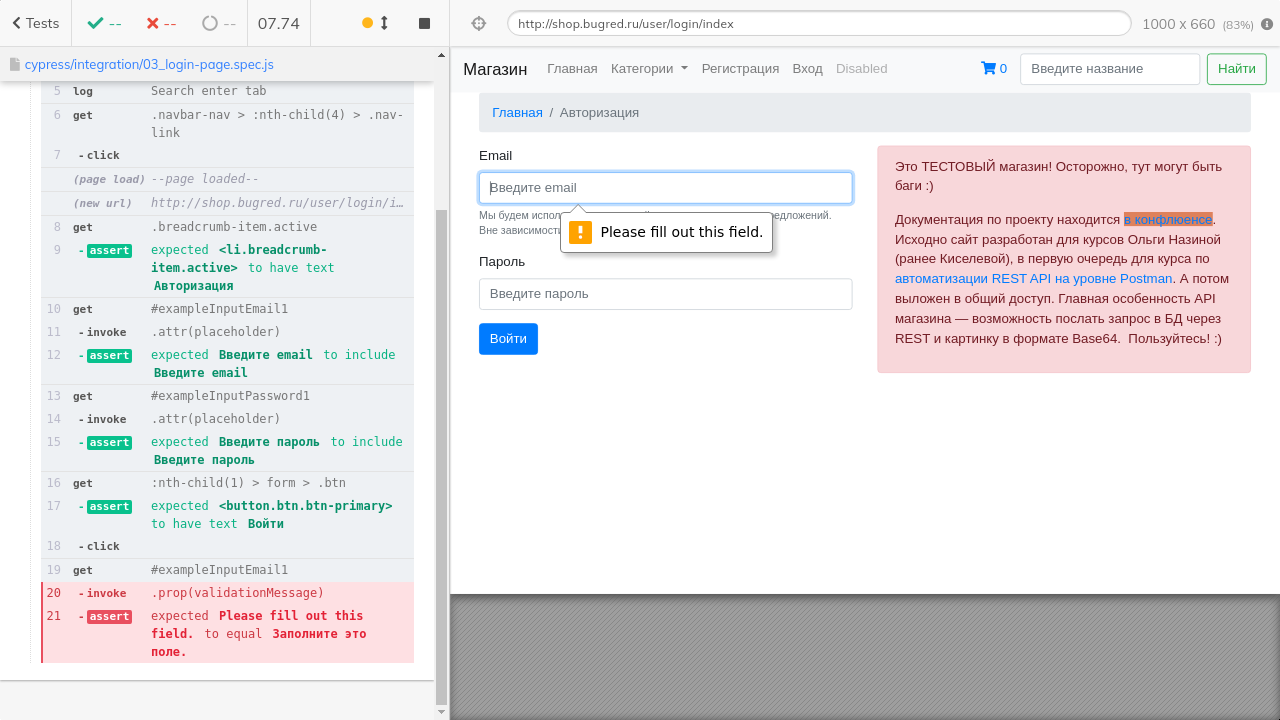
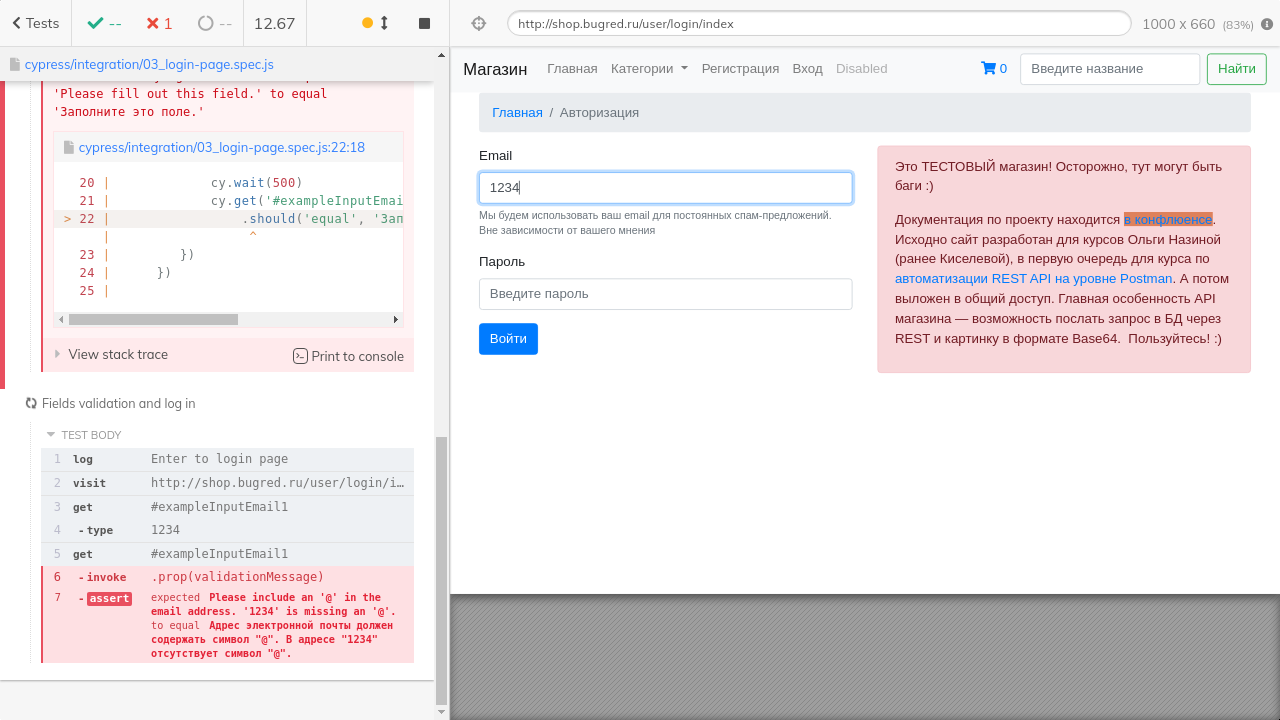
deploy: b638367f29958cf60e1c92ab9096b019d9942338

diff --git a/index.html b/index.html
@@ -1,2 +1,2 @@
 <!doctype html>
-<html lang="en"><head><meta charSet="utf-8"/><meta http-equiv="X-UA-Compatible" content="IE=edge"/><meta name="viewport" content="width=device-width, initial-scale=1"/><title>Mochawesome Report</title><link rel="stylesheet" href="assets/app.css"/></head><body data-raw="{&quot;stats&quot;:{&quot;suites&quot;:4,&quot;tests&quot;:8,&quot;passes&quot;:7,&quot;pending&quot;:0,&quot;failures&quot;:1,&quot;start&quot;:&quot;2021-10-14T08:18:33.290Z&quot;,&quot;end&quot;:&quot;2021-10-14T08:19:10.878Z&quot;,&quot;duration&quot;:15709,&quot;testsRegistered&quot;:8,&quot;passPercent&quot;:87.5,&quot;pendingPercent&quot;:0,&quot;other&quot;:0,&quot;hasOther&quot;:false,&quot;skipped&quot;:0,&quot;hasSkipped&quot;:false},&quot;results&quot;:[{&quot;uuid&quot;:&quot;0dfcf996-4aa1-4356-a237-bdf61f743bb5&quot;,&quot;title&quot;:&quot;&quot;,&quot;fullFile&quot;:&quot;cypress/integration/01_enter-to-shop.spec.js&quot;,&quot;file&quot;:&quot;cypress/integration/01_enter-to-shop.spec.js&quot;,&quot;beforeHooks&quot;:[],&quot;afterHooks&quot;:[],&quot;tests&quot;:[],&quot;suites&quot;:[{&quot;uuid&quot;:&quot;a35e7f9c-87f3-470c-b917-2eefc8cdb9fd&quot;,&quot;title&quot;:&quot;Enter to site&quot;,&quot;fullFile&quot;:&quot;&quot;,&quot;file&quot;:&quot;&quot;,&quot;beforeHooks&quot;:[],&quot;afterHooks&quot;:[],&quot;tests&quot;:[{&quot;title&quot;:&quot;First enter to web-page&quot;,&quot;fullTitle&quot;:&quot;Enter to site First enter to web-page&quot;,&quot;timedOut&quot;:null,&quot;duration&quot;:3812,&quot;state&quot;:&quot;passed&quot;,&quot;speed&quot;:&quot;slow&quot;,&quot;pass&quot;:true,&quot;fail&quot;:false,&quot;pending&quot;:false,&quot;context&quot;:null,&quot;code&quot;:&quot;cy.fixture(&#x27;example.json&#x27;).then(data =&gt; {\n  cy.log(&#x27;Enter to main page&#x27;);\n  cy.visit(data.main_url);\n  cy.get(&#x27;title&#x27;).should(&#x27;have.text&#x27;, &#x27;Тестирование&#x27;);\n  cy.log(&#x27;Search nav elements&#x27;);\n  cy.get(&#x27;.navbar-nav &gt; :nth-child(1) &gt; .nav-link&#x27;).should(&#x27;exist&#x27;);\n  cy.get(&#x27;.navbar-nav &gt; :nth-child(2) &gt; .nav-link&#x27;).should(&#x27;exist&#x27;);\n  cy.get(&#x27;.navbar-nav &gt; :nth-child(3) &gt; .nav-link&#x27;).should(&#x27;exist&#x27;);\n  cy.get(&#x27;.navbar-nav &gt; :nth-child(4) &gt; .nav-link&#x27;).should(&#x27;exist&#x27;);\n  cy.log(&#x27;Search cart icon&#x27;);\n  cy.get(&#x27;.fas&#x27;).should(&#x27;exist&#x27;);\n  cy.log(&#x27;Form input&#x27;);\n  cy.get(&#x27;.form-inline &gt; .form-control&#x27;).should(&#x27;exist&#x27;);\n  cy.get(&#x27;.form-inline &gt; .form-control&#x27;).invoke(&#x27;attr&#x27;, &#x27;placeholder&#x27;).should(&#x27;contain&#x27;, &#x27;Введите название&#x27;);\n  cy.get(&#x27;.form-inline &gt; .btn&#x27;).should(&#x27;exist&#x27;);\n  cy.get(&#x27;.form-inline &gt; .btn&#x27;).should(&#x27;have.text&#x27;, &#x27;Найти&#x27;);\n  cy.log(&#x27;Search cart icon&#x27;);\n  cy.screenshot(&#x27;main-page&#x27;);\n});&quot;,&quot;err&quot;:{},&quot;uuid&quot;:&quot;2a21c468-315e-4ed2-83f3-0a969e3bc86a&quot;,&quot;parentUUID&quot;:&quot;a35e7f9c-87f3-470c-b917-2eefc8cdb9fd&quot;,&quot;isHook&quot;:false,&quot;skipped&quot;:false}],&quot;suites&quot;:[],&quot;passes&quot;:[&quot;2a21c468-315e-4ed2-83f3-0a969e3bc86a&quot;],&quot;failures&quot;:[],&quot;pending&quot;:[],&quot;skipped&quot;:[],&quot;duration&quot;:3812,&quot;root&quot;:false,&quot;rootEmpty&quot;:false,&quot;_timeout&quot;:2000}],&quot;passes&quot;:[],&quot;failures&quot;:[],&quot;pending&quot;:[],&quot;skipped&quot;:[],&quot;duration&quot;:0,&quot;root&quot;:true,&quot;rootEmpty&quot;:true,&quot;_timeout&quot;:2000},{&quot;uuid&quot;:&quot;5208239e-46ae-4936-bc6f-14dc8afe7a53&quot;,&quot;title&quot;:&quot;&quot;,&quot;fullFile&quot;:&quot;cypress/integration/02_category-drop-down.spec.js&quot;,&quot;file&quot;:&quot;cypress/integration/02_category-drop-down.spec.js&quot;,&quot;beforeHooks&quot;:[],&quot;afterHooks&quot;:[],&quot;tests&quot;:[],&quot;suites&quot;:[{&quot;uuid&quot;:&quot;e9f5d403-a742-48b3-8f14-186c689f6cc1&quot;,&quot;title&quot;:&quot;Category navbar dropdow by click&quot;,&quot;fullFile&quot;:&quot;&quot;,&quot;file&quot;:&quot;&quot;,&quot;beforeHooks&quot;:[],&quot;afterHooks&quot;:[],&quot;tests&quot;:[{&quot;title&quot;:&quot;Dropdow by click&quot;,&quot;fullTitle&quot;:&quot;Category navbar dropdow by click Dropdow by click&quot;,&quot;timedOut&quot;:null,&quot;duration&quot;:4578,&quot;state&quot;:&quot;passed&quot;,&quot;speed&quot;:&quot;slow&quot;,&quot;pass&quot;:true,&quot;fail&quot;:false,&quot;pending&quot;:false,&quot;context&quot;:null,&quot;code&quot;:&quot;cy.fixture(&#x27;example.json&#x27;).then(data =&gt; {\n  cy.log(&#x27;Enter to main page&#x27;);\n  cy.visit(data.main_url);\n  cy.get(&#x27;title&#x27;).should(&#x27;have.text&#x27;, &#x27;Тестирование&#x27;);\n  cy.log(&#x27;Search nav elements&#x27;);\n  cy.get(&#x27;#navbarDropdown&#x27;).click();\n  cy.get(&#x27;.dropdown-menu a&#x27;).should(&#x27;have.length&#x27;, 12).first().should(&#x27;have.text&#x27;, &#x27;Категория 1&#x27;);\n  cy.get(&#x27;.dropdown-menu &gt; :nth-child(5)&#x27;).click();\n  cy.get(&#x27;.breadcrumb-item.active&#x27;).should(&#x27;have.text&#x27;, &#x27;Платья&#x27;);\n  cy.get(&#x27;#navbarDropdown&#x27;).click();\n  cy.get(&#x27;.dropdown-menu &gt; :nth-child(12)&#x27;).click();\n  cy.get(&#x27;.breadcrumb-item.active&#x27;).should(&#x27;have.text&#x27;, &#x27;Футболки&#x27;);\n  cy.get(&#x27;#navbarDropdown&#x27;).click();\n  cy.get(&#x27;.dropdown-menu &gt; :nth-child(6)&#x27;).click();\n  cy.get(&#x27;.breadcrumb-item.active&#x27;).should(&#x27;have.text&#x27;, &#x27;Шорты&#x27;);\n  cy.get(&#x27;#navbarDropdown&#x27;).click();\n  cy.get(&#x27;.dropdown-menu &gt; :nth-child(1)&#x27;).click();\n  cy.get(&#x27;.breadcrumb-item.active&#x27;).should(&#x27;have.text&#x27;, &#x27;Категория 1&#x27;);\n  cy.get(&#x27;.breadcrumb &gt; :nth-child(1) &gt; a&#x27;).click();\n  cy.contains(&#x27;.breadcrumb &gt; :nth-child(1) &gt; a&#x27;).should(&#x27;not.exist&#x27;);\n});&quot;,&quot;err&quot;:{},&quot;uuid&quot;:&quot;6567901e-6c1a-4908-931f-c26b286dcab2&quot;,&quot;parentUUID&quot;:&quot;e9f5d403-a742-48b3-8f14-186c689f6cc1&quot;,&quot;isHook&quot;:false,&quot;skipped&quot;:false}],&quot;suites&quot;:[],&quot;passes&quot;:[&quot;6567901e-6c1a-4908-931f-c26b286dcab2&quot;],&quot;failures&quot;:[],&quot;pending&quot;:[],&quot;skipped&quot;:[],&quot;duration&quot;:4578,&quot;root&quot;:false,&quot;rootEmpty&quot;:false,&quot;_timeout&quot;:2000}],&quot;passes&quot;:[],&quot;failures&quot;:[],&quot;pending&quot;:[],&quot;skipped&quot;:[],&quot;duration&quot;:0,&quot;root&quot;:true,&quot;rootEmpty&quot;:true,&quot;_timeout&quot;:2000},{&quot;uuid&quot;:&quot;52becadf-00f1-46cd-ab8f-07d2f2d77dec&quot;,&quot;title&quot;:&quot;&quot;,&quot;fullFile&quot;:&quot;cypress/integration/03_login-page.spec.js&quot;,&quot;file&quot;:&quot;cypress/integration/03_login-page.spec.js&quot;,&quot;beforeHooks&quot;:[],&quot;afterHooks&quot;:[],&quot;tests&quot;:[],&quot;suites&quot;:[{&quot;uuid&quot;:&quot;202b8a50-1e50-4962-9c93-526495836dce&quot;,&quot;title&quot;:&quot;Login page&quot;,&quot;fullFile&quot;:&quot;&quot;,&quot;file&quot;:&quot;&quot;,&quot;beforeHooks&quot;:[],&quot;afterHooks&quot;:[],&quot;tests&quot;:[{&quot;title&quot;:&quot;Fields validation and log in&quot;,&quot;fullTitle&quot;:&quot;Login page Fields validation and log in&quot;,&quot;timedOut&quot;:null,&quot;duration&quot;:6302,&quot;state&quot;:&quot;failed&quot;,&quot;speed&quot;:null,&quot;pass&quot;:false,&quot;fail&quot;:true,&quot;pending&quot;:false,&quot;context&quot;:&quot;\&quot;screenshots/03_login-page.spec.js/Login page -- Fields validation and log in (failed).png\&quot;&quot;,&quot;code&quot;:&quot;cy.fixture(&#x27;example.json&#x27;).then(data =&gt; {\n  cy.log(&#x27;Enter to main page&#x27;);\n  cy.visit(data.main_url);\n  cy.get(&#x27;title&#x27;).should(&#x27;have.text&#x27;, &#x27;Тестирование&#x27;);\n  cy.log(&#x27;Search enter tab&#x27;);\n  cy.get(&#x27;.navbar-nav &gt; :nth-child(4) &gt; .nav-link&#x27;).click();\n  cy.get(&#x27;.breadcrumb-item.active&#x27;).should(&#x27;have.text&#x27;, &#x27;Авторизация&#x27;);\n  cy.get(&#x27;#exampleInputEmail1&#x27;).invoke(&#x27;attr&#x27;, &#x27;placeholder&#x27;).should(&#x27;contain&#x27;, &#x27;Введите email&#x27;);\n  cy.get(&#x27;#exampleInputPassword1&#x27;).invoke(&#x27;attr&#x27;, &#x27;placeholder&#x27;).should(&#x27;contain&#x27;, &#x27;Введите пароль&#x27;);\n  cy.get(&#x27;:nth-child(1) &gt; form &gt; .btn&#x27;).should(&#x27;have.text&#x27;, &#x27;Войти&#x27;).click();\n  cy.get(&#x27;#exampleInputEmail1&#x27;).invoke(&#x27;prop&#x27;, &#x27;validationMessage&#x27;).should(&#x27;equal&#x27;, &#x27;Заполните это поле.&#x27;);\n  cy.get(&#x27;#exampleInputEmail1&#x27;).type(&#x27;1234&#x27;);\n  cy.get(&#x27;#exampleInputEmail1&#x27;).invoke(&#x27;prop&#x27;, &#x27;validationMessage&#x27;).should(&#x27;equal&#x27;, &#x27;Адрес электронной почты должен содержать символ \&quot;@\&quot;. В адресе \&quot;1234\&quot; отсутствует символ \&quot;@\&quot;.&#x27;);\n  cy.get(&#x27;#exampleInputEmail1&#x27;).type(&#x27;login@&#x27;);\n  cy.get(&#x27;#exampleInputEmail1&#x27;).invoke(&#x27;prop&#x27;, &#x27;validationMessage&#x27;).should(&#x27;equal&#x27;, &#x27;Введите часть адреса после символа \&quot;@\&quot;. Адрес \&quot;1234login@\&quot; неполный.&#x27;);\n  cy.get(&#x27;#exampleInputEmail1&#x27;).type(&#x27;mail.ru&#x27;);\n  cy.get(&#x27;#exampleInputPassword1&#x27;).invoke(&#x27;prop&#x27;, &#x27;validationMessage&#x27;).should(&#x27;equal&#x27;, &#x27;Заполните это поле.&#x27;);\n  cy.log(&#x27;Enter valid data&#x27;);\n  cy.get(&#x27;#exampleInputEmail1&#x27;).type(&#x27;{selectall}{backspace}&#x27;);\n  cy.get(&#x27;#exampleInputEmail1&#x27;).type(data.login);\n  cy.get(&#x27;#exampleInputPassword1&#x27;).type(data.password);\n  cy.get(&#x27;:nth-child(1) &gt; form &gt; .btn&#x27;).should(&#x27;have.text&#x27;, &#x27;Войти&#x27;).click();\n  cy.log(&#x27;Log in shop and cross to main page with new tab&#x27;);\n  cy.get(&#x27;.navbar-nav &gt; :nth-child(3) &gt; .nav-link&#x27;).should(&#x27;have.text&#x27;, &#x27;\\n                                Test                            &#x27;);\n  cy.get(&#x27;.navbar-nav &gt; :nth-child(3) &gt; .nav-link&#x27;).click();\n  cy.get(&#x27;.nav-item.show &gt; .dropdown-menu&#x27;);\n  cy.get(&#x27;[href=\&quot;/user/setup/index\&quot;]&#x27;).should(&#x27;have.text&#x27;, &#x27;Настройки&#x27;);\n  cy.get(&#x27;[href=\&quot;/user/lk/index\&quot;]&#x27;).should(&#x27;have.text&#x27;, &#x27;Личный кабинет&#x27;);\n  cy.get(&#x27;[href=\&quot;/user/lk/logout\&quot;]&#x27;).should(&#x27;have.text&#x27;, &#x27;Выйдем&#x27;);\n});&quot;,&quot;err&quot;:{&quot;message&quot;:&quot;AssertionError: Timed out retrying after 4000ms: expected &#x27;Please fill out this field.&#x27; to equal &#x27;Заполните это поле.&#x27;&quot;,&quot;estack&quot;:&quot;AssertionError: Timed out retrying after 4000ms: expected &#x27;Please fill out this field.&#x27; to equal &#x27;Заполните это поле.&#x27;\n    at Context.eval (http://shop.bugred.ru/__cypress/tests?p=cypress/integration/03_login-page.spec.js:111:73)&quot;,&quot;diff&quot;:&quot;- &#x27;Please fill out this field.&#x27;\n+ &#x27;Заполните это поле.&#x27;\n&quot;},&quot;uuid&quot;:&quot;e033a44a-0f41-4331-9142-ffd30e2c7bc5&quot;,&quot;parentUUID&quot;:&quot;202b8a50-1e50-4962-9c93-526495836dce&quot;,&quot;isHook&quot;:false,&quot;skipped&quot;:false}],&quot;suites&quot;:[],&quot;passes&quot;:[],&quot;failures&quot;:[&quot;e033a44a-0f41-4331-9142-ffd30e2c7bc5&quot;],&quot;pending&quot;:[],&quot;skipped&quot;:[],&quot;duration&quot;:6302,&quot;root&quot;:false,&quot;rootEmpty&quot;:false,&quot;_timeout&quot;:2000}],&quot;passes&quot;:[],&quot;failures&quot;:[],&quot;pending&quot;:[],&quot;skipped&quot;:[],&quot;duration&quot;:0,&quot;root&quot;:true,&quot;rootEmpty&quot;:true,&quot;_timeout&quot;:2000},{&quot;uuid&quot;:&quot;210a9a6b-94ac-4dd4-b509-3ba75fe205f1&quot;,&quot;title&quot;:&quot;&quot;,&quot;fullFile&quot;:&quot;cypress/integration/04_api-test.spec.js&quot;,&quot;file&quot;:&quot;cypress/integration/04_api-test.spec.js&quot;,&quot;beforeHooks&quot;:[],&quot;afterHooks&quot;:[],&quot;tests&quot;:[],&quot;suites&quot;:[{&quot;uuid&quot;:&quot;f1688cf5-00a6-4c1e-9439-1f0c952fa551&quot;,&quot;title&quot;:&quot;Test api endpoint shop&quot;,&quot;fullFile&quot;:&quot;&quot;,&quot;file&quot;:&quot;&quot;,&quot;beforeHooks&quot;:[],&quot;afterHooks&quot;:[],&quot;tests&quot;:[{&quot;title&quot;:&quot;Get item success&quot;,&quot;fullTitle&quot;:&quot;Test api endpoint shop Get item success&quot;,&quot;timedOut&quot;:null,&quot;duration&quot;:243,&quot;state&quot;:&quot;passed&quot;,&quot;speed&quot;:&quot;slow&quot;,&quot;pass&quot;:true,&quot;fail&quot;:false,&quot;pending&quot;:false,&quot;context&quot;:null,&quot;code&quot;:&quot;cy.request(&#x27;GET&#x27;, &#x27;http://shop.bugred.ru/api/items/get/&#x27;, {\n  \&quot;id\&quot;: &#x27;51&#x27;\n}).then(response =&gt; {\n  expect(response.body.result).to.have.property(&#x27;name&#x27;, &#x27;Шортики&#x27;);\n  expect(response.body.result).to.have.property(&#x27;section&#x27;, &#x27;Платья&#x27;);\n  expect(response.body.result).to.have.property(&#x27;description&#x27;, &#x27;Модное платье из новой коллекции!&#x27;);\n  expect(response.body.result).to.have.property(&#x27;color&#x27;, &#x27;RED&#x27;);\n  expect(response.body.result).to.have.property(&#x27;size&#x27;, &#x27;44&#x27;);\n  expect(response.body.result).to.have.property(&#x27;params&#x27;, &#x27;&#x27;);\n  expect(response.body.result).to.have.property(&#x27;photo&#x27;, &#x27;http://shop.bugred.ruhttps://via.placeholder.com/300x300&#x27;);\n});&quot;,&quot;err&quot;:{},&quot;uuid&quot;:&quot;62d13555-eef0-4aaa-ad9c-e54dc0a117b6&quot;,&quot;parentUUID&quot;:&quot;f1688cf5-00a6-4c1e-9439-1f0c952fa551&quot;,&quot;isHook&quot;:false,&quot;skipped&quot;:false},{&quot;title&quot;:&quot;Get item price&quot;,&quot;fullTitle&quot;:&quot;Test api endpoint shop Get item price&quot;,&quot;timedOut&quot;:null,&quot;duration&quot;:200,&quot;state&quot;:&quot;passed&quot;,&quot;speed&quot;:&quot;slow&quot;,&quot;pass&quot;:true,&quot;fail&quot;:false,&quot;pending&quot;:false,&quot;context&quot;:null,&quot;code&quot;:&quot;cy.request(&#x27;GET&#x27;, &#x27;http://shop.bugred.ru/api/items/get/&#x27;, {\n  \&quot;id\&quot;: &#x27;5&#x27;\n}).then(response =&gt; {\n  expect(response.body.result).to.have.property(&#x27;price&#x27;, 1500);\n});&quot;,&quot;err&quot;:{},&quot;uuid&quot;:&quot;106d8a9e-3218-4315-b9ee-9479f53b2cdb&quot;,&quot;parentUUID&quot;:&quot;f1688cf5-00a6-4c1e-9439-1f0c952fa551&quot;,&quot;isHook&quot;:false,&quot;skipped&quot;:false},{&quot;title&quot;:&quot;Get without id&quot;,&quot;fullTitle&quot;:&quot;Test api endpoint shop Get without id&quot;,&quot;timedOut&quot;:null,&quot;duration&quot;:181,&quot;state&quot;:&quot;passed&quot;,&quot;speed&quot;:&quot;slow&quot;,&quot;pass&quot;:true,&quot;fail&quot;:false,&quot;pending&quot;:false,&quot;context&quot;:null,&quot;code&quot;:&quot;cy.request(&#x27;GET&#x27;, &#x27;http://shop.bugred.ru/api/items/get/&#x27;).then(response =&gt; {\n  expect(response.body).to.have.property(&#x27;error&#x27;, &#x27;id_not_filled&#x27;);\n  expect(response.body).to.have.property(&#x27;message&#x27;, &#x27;Поле ID товара  не заполнено&#x27;);\n});&quot;,&quot;err&quot;:{},&quot;uuid&quot;:&quot;c7abe5d8-a504-4b09-bd5b-7a27a9157dd2&quot;,&quot;parentUUID&quot;:&quot;f1688cf5-00a6-4c1e-9439-1f0c952fa551&quot;,&quot;isHook&quot;:false,&quot;skipped&quot;:false},{&quot;title&quot;:&quot;Get item not found&quot;,&quot;fullTitle&quot;:&quot;Test api endpoint shop Get item not found&quot;,&quot;timedOut&quot;:null,&quot;duration&quot;:190,&quot;state&quot;:&quot;passed&quot;,&quot;speed&quot;:&quot;slow&quot;,&quot;pass&quot;:true,&quot;fail&quot;:false,&quot;pending&quot;:false,&quot;context&quot;:null,&quot;code&quot;:&quot;cy.request(&#x27;GET&#x27;, &#x27;http://shop.bugred.ru/api/items/get/&#x27;, {\n  \&quot;id\&quot;: &#x27;567&#x27;\n}).then(response =&gt; {\n  expect(response.body).to.have.property(&#x27;error&#x27;, &#x27;item_with_id_not_found&#x27;);\n  expect(response.body).to.have.property(&#x27;message&#x27;, &#x27;Товар с ID 567 не найден!&#x27;);\n});&quot;,&quot;err&quot;:{},&quot;uuid&quot;:&quot;dd251920-f5d5-4b43-8058-fc381f63711d&quot;,&quot;parentUUID&quot;:&quot;f1688cf5-00a6-4c1e-9439-1f0c952fa551&quot;,&quot;isHook&quot;:false,&quot;skipped&quot;:false},{&quot;title&quot;:&quot;Get query select item&quot;,&quot;fullTitle&quot;:&quot;Test api endpoint shop Get query select item&quot;,&quot;timedOut&quot;:null,&quot;duration&quot;:203,&quot;state&quot;:&quot;passed&quot;,&quot;speed&quot;:&quot;slow&quot;,&quot;pass&quot;:true,&quot;fail&quot;:false,&quot;pending&quot;:false,&quot;context&quot;:null,&quot;code&quot;:&quot;cy.request(&#x27;GET&#x27;, &#x27;http://shop.bugred.ru/api/items/select/&#x27;, {\n  \&quot;sql_query\&quot;: \&quot;select * from items where last_id = 2;\&quot;\n}).then(response =&gt; {\n  expect(response.body.result[0]).to.have.property(&#x27;title&#x27;, &#x27;Товар 2&#x27;);\n  expect(response.body.result[0]).to.have.property(&#x27;price&#x27;, &#x27;1000&#x27;);\n  expect(response.body.result[0]).to.have.property(&#x27;image&#x27;, &#x27;/files/tmpfiles/avatar_big.jpg&#x27;);\n  expect(response.body.result[0]).to.have.property(&#x27;category&#x27;, &#x27;1&#x27;);\n  expect(response.body.result[0]).to.have.property(&#x27;sort&#x27;, &#x27;2&#x27;);\n});&quot;,&quot;err&quot;:{},&quot;uuid&quot;:&quot;f0aec3b4-c941-4d4f-8853-d80e17b02d93&quot;,&quot;parentUUID&quot;:&quot;f1688cf5-00a6-4c1e-9439-1f0c952fa551&quot;,&quot;isHook&quot;:false,&quot;skipped&quot;:false}],&quot;suites&quot;:[],&quot;passes&quot;:[&quot;62d13555-eef0-4aaa-ad9c-e54dc0a117b6&quot;,&quot;106d8a9e-3218-4315-b9ee-9479f53b2cdb&quot;,&quot;c7abe5d8-a504-4b09-bd5b-7a27a9157dd2&quot;,&quot;dd251920-f5d5-4b43-8058-fc381f63711d&quot;,&quot;f0aec3b4-c941-4d4f-8853-d80e17b02d93&quot;],&quot;failures&quot;:[],&quot;pending&quot;:[],&quot;skipped&quot;:[],&quot;duration&quot;:1017,&quot;root&quot;:false,&quot;rootEmpty&quot;:false,&quot;_timeout&quot;:2000}],&quot;passes&quot;:[],&quot;failures&quot;:[],&quot;pending&quot;:[],&quot;skipped&quot;:[],&quot;duration&quot;:0,&quot;root&quot;:true,&quot;rootEmpty&quot;:true,&quot;_timeout&quot;:2000}],&quot;meta&quot;:{&quot;mocha&quot;:{&quot;version&quot;:&quot;7.0.1&quot;},&quot;mochawesome&quot;:{&quot;options&quot;:{&quot;quiet&quot;:false,&quot;reportFilename&quot;:&quot;mochawesome&quot;,&quot;saveHtml&quot;:false,&quot;saveJson&quot;:true,&quot;consoleReporter&quot;:&quot;spec&quot;,&quot;useInlineDiffs&quot;:false,&quot;code&quot;:true},&quot;version&quot;:&quot;6.3.0&quot;},&quot;marge&quot;:{&quot;options&quot;:{&quot;id&quot;:&quot;default&quot;,&quot;reportDir&quot;:&quot;cypress/reports/mocha&quot;,&quot;quite&quot;:true,&quot;overwrite&quot;:false,&quot;html&quot;:false,&quot;json&quot;:true},&quot;version&quot;:&quot;5.2.0&quot;}}}" data-config="{&quot;reportFilename&quot;:&quot;index&quot;,&quot;reportDir&quot;:&quot;public&quot;,&quot;reportTitle&quot;:&quot;test-project-cypress&quot;,&quot;reportPageTitle&quot;:&quot;Mochawesome Report&quot;,&quot;inline&quot;:false,&quot;inlineAssets&quot;:false,&quot;assetsDir&quot;:&quot;public/assets&quot;,&quot;cdn&quot;:false,&quot;charts&quot;:false,&quot;enableCharts&quot;:false,&quot;code&quot;:true,&quot;enableCode&quot;:true,&quot;autoOpen&quot;:false,&quot;overwrite&quot;:true,&quot;timestamp&quot;:false,&quot;ts&quot;:false,&quot;showPassed&quot;:true,&quot;showFailed&quot;:true,&quot;showPending&quot;:true,&quot;showSkipped&quot;:false,&quot;showHooks&quot;:&quot;failed&quot;,&quot;saveJson&quot;:false,&quot;saveHtml&quot;:true,&quot;dev&quot;:false,&quot;htmlFile&quot;:&quot;/home/runner/work/test-project-cypress/test-project-cypress/public/index.html&quot;}"><div id="report"></div><script src="assets/app.js"></script></body></html>
+<html lang="en"><head><meta charSet="utf-8"/><meta http-equiv="X-UA-Compatible" content="IE=edge"/><meta name="viewport" content="width=device-width, initial-scale=1"/><title>Mochawesome Report</title><link rel="stylesheet" href="assets/app.css"/></head><body data-raw="{&quot;stats&quot;:{&quot;suites&quot;:4,&quot;tests&quot;:9,&quot;passes&quot;:7,&quot;pending&quot;:0,&quot;failures&quot;:2,&quot;start&quot;:&quot;2021-10-14T10:38:49.817Z&quot;,&quot;end&quot;:&quot;2021-10-14T10:39:29.204Z&quot;,&quot;duration&quot;:20702,&quot;testsRegistered&quot;:9,&quot;passPercent&quot;:77.77777777777777,&quot;pendingPercent&quot;:0,&quot;other&quot;:0,&quot;hasOther&quot;:false,&quot;skipped&quot;:0,&quot;hasSkipped&quot;:false},&quot;results&quot;:[{&quot;uuid&quot;:&quot;96d90d0c-0b3b-4d44-a8aa-1ee7ac39daf6&quot;,&quot;title&quot;:&quot;&quot;,&quot;fullFile&quot;:&quot;cypress/integration/01_enter-to-shop.spec.js&quot;,&quot;file&quot;:&quot;cypress/integration/01_enter-to-shop.spec.js&quot;,&quot;beforeHooks&quot;:[],&quot;afterHooks&quot;:[],&quot;tests&quot;:[],&quot;suites&quot;:[{&quot;uuid&quot;:&quot;b7e2e964-a35b-4b25-a265-ad56f5832e52&quot;,&quot;title&quot;:&quot;Enter to site&quot;,&quot;fullFile&quot;:&quot;&quot;,&quot;file&quot;:&quot;&quot;,&quot;beforeHooks&quot;:[],&quot;afterHooks&quot;:[],&quot;tests&quot;:[{&quot;title&quot;:&quot;First enter to web-page&quot;,&quot;fullTitle&quot;:&quot;Enter to site First enter to web-page&quot;,&quot;timedOut&quot;:null,&quot;duration&quot;:4035,&quot;state&quot;:&quot;passed&quot;,&quot;speed&quot;:&quot;slow&quot;,&quot;pass&quot;:true,&quot;fail&quot;:false,&quot;pending&quot;:false,&quot;context&quot;:null,&quot;code&quot;:&quot;cy.fixture(&#x27;example.json&#x27;).then(data =&gt; {\n  cy.log(&#x27;Enter to main page&#x27;);\n  cy.visit(data.main_url);\n  cy.get(&#x27;title&#x27;).should(&#x27;have.text&#x27;, &#x27;Тестирование&#x27;);\n  cy.log(&#x27;Search nav elements&#x27;);\n  cy.get(&#x27;.navbar-nav &gt; :nth-child(1) &gt; .nav-link&#x27;).should(&#x27;exist&#x27;);\n  cy.get(&#x27;.navbar-nav &gt; :nth-child(2) &gt; .nav-link&#x27;).should(&#x27;exist&#x27;);\n  cy.get(&#x27;.navbar-nav &gt; :nth-child(3) &gt; .nav-link&#x27;).should(&#x27;exist&#x27;);\n  cy.get(&#x27;.navbar-nav &gt; :nth-child(4) &gt; .nav-link&#x27;).should(&#x27;exist&#x27;);\n  cy.log(&#x27;Search cart icon&#x27;);\n  cy.get(&#x27;.fas&#x27;).should(&#x27;exist&#x27;);\n  cy.log(&#x27;Form input&#x27;);\n  cy.get(&#x27;.form-inline &gt; .form-control&#x27;).should(&#x27;exist&#x27;);\n  cy.get(&#x27;.form-inline &gt; .form-control&#x27;).invoke(&#x27;attr&#x27;, &#x27;placeholder&#x27;).should(&#x27;contain&#x27;, &#x27;Введите название&#x27;);\n  cy.get(&#x27;.form-inline &gt; .btn&#x27;).should(&#x27;exist&#x27;);\n  cy.get(&#x27;.form-inline &gt; .btn&#x27;).should(&#x27;have.text&#x27;, &#x27;Найти&#x27;);\n  cy.log(&#x27;Search cart icon&#x27;);\n  cy.screenshot(&#x27;main-page&#x27;);\n});&quot;,&quot;err&quot;:{},&quot;uuid&quot;:&quot;a893ca0f-a1b8-4fc7-be75-d1b280366078&quot;,&quot;parentUUID&quot;:&quot;b7e2e964-a35b-4b25-a265-ad56f5832e52&quot;,&quot;isHook&quot;:false,&quot;skipped&quot;:false}],&quot;suites&quot;:[],&quot;passes&quot;:[&quot;a893ca0f-a1b8-4fc7-be75-d1b280366078&quot;],&quot;failures&quot;:[],&quot;pending&quot;:[],&quot;skipped&quot;:[],&quot;duration&quot;:4035,&quot;root&quot;:false,&quot;rootEmpty&quot;:false,&quot;_timeout&quot;:2000}],&quot;passes&quot;:[],&quot;failures&quot;:[],&quot;pending&quot;:[],&quot;skipped&quot;:[],&quot;duration&quot;:0,&quot;root&quot;:true,&quot;rootEmpty&quot;:true,&quot;_timeout&quot;:2000},{&quot;uuid&quot;:&quot;78e41e3f-2d0c-4cd0-b936-d3a367ae3586&quot;,&quot;title&quot;:&quot;&quot;,&quot;fullFile&quot;:&quot;cypress/integration/02_category-drop-down.spec.js&quot;,&quot;file&quot;:&quot;cypress/integration/02_category-drop-down.spec.js&quot;,&quot;beforeHooks&quot;:[],&quot;afterHooks&quot;:[],&quot;tests&quot;:[],&quot;suites&quot;:[{&quot;uuid&quot;:&quot;0d280e83-725f-444c-99d6-ba53ad8b54cd&quot;,&quot;title&quot;:&quot;Category navbar dropdow by click&quot;,&quot;fullFile&quot;:&quot;&quot;,&quot;file&quot;:&quot;&quot;,&quot;beforeHooks&quot;:[],&quot;afterHooks&quot;:[],&quot;tests&quot;:[{&quot;title&quot;:&quot;Dropdow by click&quot;,&quot;fullTitle&quot;:&quot;Category navbar dropdow by click Dropdow by click&quot;,&quot;timedOut&quot;:null,&quot;duration&quot;:4335,&quot;state&quot;:&quot;passed&quot;,&quot;speed&quot;:&quot;slow&quot;,&quot;pass&quot;:true,&quot;fail&quot;:false,&quot;pending&quot;:false,&quot;context&quot;:null,&quot;code&quot;:&quot;cy.fixture(&#x27;example.json&#x27;).then(data =&gt; {\n  cy.log(&#x27;Enter to main page&#x27;);\n  cy.visit(data.main_url);\n  cy.get(&#x27;title&#x27;).should(&#x27;have.text&#x27;, &#x27;Тестирование&#x27;);\n  cy.log(&#x27;Search nav elements&#x27;);\n  cy.get(&#x27;#navbarDropdown&#x27;).click();\n  cy.get(&#x27;.dropdown-menu a&#x27;).should(&#x27;have.length&#x27;, 12).first().should(&#x27;have.text&#x27;, &#x27;Категория 1&#x27;);\n  cy.get(&#x27;.dropdown-menu &gt; :nth-child(5)&#x27;).click();\n  cy.get(&#x27;.breadcrumb-item.active&#x27;).should(&#x27;have.text&#x27;, &#x27;Платья&#x27;);\n  cy.get(&#x27;#navbarDropdown&#x27;).click();\n  cy.get(&#x27;.dropdown-menu &gt; :nth-child(12)&#x27;).click();\n  cy.get(&#x27;.breadcrumb-item.active&#x27;).should(&#x27;have.text&#x27;, &#x27;Футболки&#x27;);\n  cy.get(&#x27;#navbarDropdown&#x27;).click();\n  cy.get(&#x27;.dropdown-menu &gt; :nth-child(6)&#x27;).click();\n  cy.get(&#x27;.breadcrumb-item.active&#x27;).should(&#x27;have.text&#x27;, &#x27;Шорты&#x27;);\n  cy.get(&#x27;#navbarDropdown&#x27;).click();\n  cy.get(&#x27;.dropdown-menu &gt; :nth-child(1)&#x27;).click();\n  cy.get(&#x27;.breadcrumb-item.active&#x27;).should(&#x27;have.text&#x27;, &#x27;Категория 1&#x27;);\n  cy.get(&#x27;.breadcrumb &gt; :nth-child(1) &gt; a&#x27;).click();\n  cy.contains(&#x27;.breadcrumb &gt; :nth-child(1) &gt; a&#x27;).should(&#x27;not.exist&#x27;);\n});&quot;,&quot;err&quot;:{},&quot;uuid&quot;:&quot;98037aa7-5527-499e-9fc5-ef8afb08e0d4&quot;,&quot;parentUUID&quot;:&quot;0d280e83-725f-444c-99d6-ba53ad8b54cd&quot;,&quot;isHook&quot;:false,&quot;skipped&quot;:false}],&quot;suites&quot;:[],&quot;passes&quot;:[&quot;98037aa7-5527-499e-9fc5-ef8afb08e0d4&quot;],&quot;failures&quot;:[],&quot;pending&quot;:[],&quot;skipped&quot;:[],&quot;duration&quot;:4335,&quot;root&quot;:false,&quot;rootEmpty&quot;:false,&quot;_timeout&quot;:2000}],&quot;passes&quot;:[],&quot;failures&quot;:[],&quot;pending&quot;:[],&quot;skipped&quot;:[],&quot;duration&quot;:0,&quot;root&quot;:true,&quot;rootEmpty&quot;:true,&quot;_timeout&quot;:2000},{&quot;uuid&quot;:&quot;2835c1f1-1032-4142-beae-f6b251b986c1&quot;,&quot;title&quot;:&quot;&quot;,&quot;fullFile&quot;:&quot;cypress/integration/03_login-page.spec.js&quot;,&quot;file&quot;:&quot;cypress/integration/03_login-page.spec.js&quot;,&quot;beforeHooks&quot;:[],&quot;afterHooks&quot;:[],&quot;tests&quot;:[],&quot;suites&quot;:[{&quot;uuid&quot;:&quot;f335f923-5375-4304-8eea-92ad7628fd54&quot;,&quot;title&quot;:&quot;Login page&quot;,&quot;fullFile&quot;:&quot;&quot;,&quot;file&quot;:&quot;&quot;,&quot;beforeHooks&quot;:[],&quot;afterHooks&quot;:[],&quot;tests&quot;:[{&quot;title&quot;:&quot;Open log in pages and check fields and email validation&quot;,&quot;fullTitle&quot;:&quot;Login page Open log in pages and check fields and email validation&quot;,&quot;timedOut&quot;:null,&quot;duration&quot;:6664,&quot;state&quot;:&quot;failed&quot;,&quot;speed&quot;:null,&quot;pass&quot;:false,&quot;fail&quot;:true,&quot;pending&quot;:false,&quot;context&quot;:&quot;\&quot;screenshots/03_login-page.spec.js/Login page -- Open log in pages and check fields and email validation (failed).png\&quot;&quot;,&quot;code&quot;:&quot;cy.fixture(&#x27;example.json&#x27;).then(data =&gt; {\n  cy.log(&#x27;Enter to main page&#x27;);\n  cy.visit(data.main_url);\n  cy.get(&#x27;title&#x27;).should(&#x27;have.text&#x27;, &#x27;Тестирование&#x27;);\n  cy.log(&#x27;Search enter tab&#x27;);\n  cy.get(&#x27;.navbar-nav &gt; :nth-child(4) &gt; .nav-link&#x27;).click();\n  cy.log(&#x27;Enter to login page&#x27;);\n  cy.get(&#x27;.breadcrumb-item.active&#x27;).should(&#x27;have.text&#x27;, &#x27;Авторизация&#x27;);\n  cy.log(&#x27;Check placeholder&#x27;);\n  cy.get(&#x27;#exampleInputEmail1&#x27;).invoke(&#x27;attr&#x27;, &#x27;placeholder&#x27;).should(&#x27;contain&#x27;, &#x27;Введите email&#x27;);\n  cy.get(&#x27;#exampleInputPassword1&#x27;).invoke(&#x27;attr&#x27;, &#x27;placeholder&#x27;).should(&#x27;contain&#x27;, &#x27;Введите пароль&#x27;);\n  cy.log(&#x27;Submit if fields empty&#x27;);\n  cy.get(&#x27;:nth-child(1) &gt; form &gt; .btn&#x27;).should(&#x27;have.text&#x27;, &#x27;Войти&#x27;).click();\n  cy.wait(500);\n  cy.get(&#x27;#exampleInputEmail1&#x27;).invoke(&#x27;prop&#x27;, &#x27;validationMessage&#x27;).should(&#x27;equal&#x27;, &#x27;Заполните это поле.&#x27;);\n});&quot;,&quot;err&quot;:{&quot;message&quot;:&quot;AssertionError: Timed out retrying after 4000ms: expected &#x27;Please fill out this field.&#x27; to equal &#x27;Заполните это поле.&#x27;&quot;,&quot;estack&quot;:&quot;AssertionError: Timed out retrying after 4000ms: expected &#x27;Please fill out this field.&#x27; to equal &#x27;Заполните это поле.&#x27;\n    at Context.eval (http://shop.bugred.ru/__cypress/tests?p=cypress/integration/03_login-page.spec.js:115:73)&quot;,&quot;diff&quot;:&quot;- &#x27;Please fill out this field.&#x27;\n+ &#x27;Заполните это поле.&#x27;\n&quot;},&quot;uuid&quot;:&quot;fb912a8f-9cd5-44b5-b3a6-cbe5ce19fa7e&quot;,&quot;parentUUID&quot;:&quot;f335f923-5375-4304-8eea-92ad7628fd54&quot;,&quot;isHook&quot;:false,&quot;skipped&quot;:false},{&quot;title&quot;:&quot;Fields validation and log in&quot;,&quot;fullTitle&quot;:&quot;Login page Fields validation and log in&quot;,&quot;timedOut&quot;:null,&quot;duration&quot;:4624,&quot;state&quot;:&quot;failed&quot;,&quot;speed&quot;:null,&quot;pass&quot;:false,&quot;fail&quot;:true,&quot;pending&quot;:false,&quot;context&quot;:&quot;\&quot;screenshots/03_login-page.spec.js/Login page -- Fields validation and log in (failed).png\&quot;&quot;,&quot;code&quot;:&quot;cy.fixture(&#x27;example.json&#x27;).then(data =&gt; {\n  cy.log(&#x27;Enter to login page&#x27;);\n  cy.visit(data.login_url);\n  cy.get(&#x27;#exampleInputEmail1&#x27;).type(&#x27;1234&#x27;);\n  cy.get(&#x27;#exampleInputEmail1&#x27;).invoke(&#x27;prop&#x27;, &#x27;validationMessage&#x27;).should(&#x27;equal&#x27;, &#x27;Адрес электронной почты должен содержать символ \&quot;@\&quot;. В адресе \&quot;1234\&quot; отсутствует символ \&quot;@\&quot;.&#x27;);\n  cy.get(&#x27;#exampleInputEmail1&#x27;).type(&#x27;login@&#x27;);\n  cy.get(&#x27;#exampleInputEmail1&#x27;).invoke(&#x27;prop&#x27;, &#x27;validationMessage&#x27;).should(&#x27;equal&#x27;, &#x27;Введите часть адреса после символа \&quot;@\&quot;. Адрес \&quot;1234login@\&quot; неполный.&#x27;);\n  cy.get(&#x27;#exampleInputEmail1&#x27;).type(&#x27;mail.ru&#x27;);\n  cy.get(&#x27;#exampleInputPassword1&#x27;).invoke(&#x27;prop&#x27;, &#x27;validationMessage&#x27;).should(&#x27;equal&#x27;, &#x27;Заполните это поле.&#x27;);\n  cy.log(&#x27;Enter valid data&#x27;);\n  cy.get(&#x27;#exampleInputEmail1&#x27;).type(&#x27;{selectall}{backspace}&#x27;);\n  cy.get(&#x27;#exampleInputEmail1&#x27;).type(data.login);\n  cy.get(&#x27;#exampleInputPassword1&#x27;).type(data.password);\n  cy.get(&#x27;:nth-child(1) &gt; form &gt; .btn&#x27;).should(&#x27;have.text&#x27;, &#x27;Войти&#x27;).click();\n  cy.log(&#x27;Log in shop and cross to main page with new tab&#x27;);\n  cy.get(&#x27;.navbar-nav &gt; :nth-child(3) &gt; .nav-link&#x27;).should(&#x27;have.text&#x27;, &#x27;\\n                                Test                            &#x27;);\n  cy.get(&#x27;.navbar-nav &gt; :nth-child(3) &gt; .nav-link&#x27;).click();\n  cy.get(&#x27;.nav-item.show &gt; .dropdown-menu&#x27;);\n  cy.get(&#x27;[href=\&quot;/user/setup/index\&quot;]&#x27;).should(&#x27;have.text&#x27;, &#x27;Настройки&#x27;);\n  cy.get(&#x27;[href=\&quot;/user/lk/index\&quot;]&#x27;).should(&#x27;have.text&#x27;, &#x27;Личный кабинет&#x27;);\n  cy.get(&#x27;[href=\&quot;/user/lk/logout\&quot;]&#x27;).should(&#x27;have.text&#x27;, &#x27;Выйдем&#x27;);\n});&quot;,&quot;err&quot;:{&quot;message&quot;:&quot;AssertionError: Timed out retrying after 4000ms: expected &#x27;Please include an \\&#x27;@\\&#x27; in the email address. \\&#x27;1234\\&#x27; is missing an \\&#x27;@\\&#x27;.&#x27; to equal &#x27;Адрес электронной почты должен содержать символ \&quot;@\&quot;. В адресе \&quot;1234\&quot; отсутствует символ \&quot;@\&quot;.&#x27;&quot;,&quot;estack&quot;:&quot;AssertionError: Timed out retrying after 4000ms: expected &#x27;Please include an \\&#x27;@\\&#x27; in the email address. \\&#x27;1234\\&#x27; is missing an \\&#x27;@\\&#x27;.&#x27; to equal &#x27;Адрес электронной почты должен содержать символ \&quot;@\&quot;. В адресе \&quot;1234\&quot; отсутствует символ \&quot;@\&quot;.&#x27;\n    at Context.eval (http://shop.bugred.ru/__cypress/tests?p=cypress/integration/03_login-page.spec.js:123:73)&quot;,&quot;diff&quot;:&quot;- &#x27;Please include an \\&#x27;@\\&#x27; in the email address. \\&#x27;1234\\&#x27; is missing an \\&#x27;@\\&#x27;.&#x27;\n+ &#x27;Адрес электронной почты должен содержать символ \&quot;@\&quot;. В адресе \&quot;1234\&quot; отсутствует символ \&quot;@\&quot;.&#x27;\n&quot;},&quot;uuid&quot;:&quot;975b721a-1d10-444e-8db5-640ca879c27b&quot;,&quot;parentUUID&quot;:&quot;f335f923-5375-4304-8eea-92ad7628fd54&quot;,&quot;isHook&quot;:false,&quot;skipped&quot;:false}],&quot;suites&quot;:[],&quot;passes&quot;:[],&quot;failures&quot;:[&quot;fb912a8f-9cd5-44b5-b3a6-cbe5ce19fa7e&quot;,&quot;975b721a-1d10-444e-8db5-640ca879c27b&quot;],&quot;pending&quot;:[],&quot;skipped&quot;:[],&quot;duration&quot;:11288,&quot;root&quot;:false,&quot;rootEmpty&quot;:false,&quot;_timeout&quot;:2000}],&quot;passes&quot;:[],&quot;failures&quot;:[],&quot;pending&quot;:[],&quot;skipped&quot;:[],&quot;duration&quot;:0,&quot;root&quot;:true,&quot;rootEmpty&quot;:true,&quot;_timeout&quot;:2000},{&quot;uuid&quot;:&quot;b68a8f87-08b6-4fa7-97b6-2cec14844876&quot;,&quot;title&quot;:&quot;&quot;,&quot;fullFile&quot;:&quot;cypress/integration/04_api-test.spec.js&quot;,&quot;file&quot;:&quot;cypress/integration/04_api-test.spec.js&quot;,&quot;beforeHooks&quot;:[],&quot;afterHooks&quot;:[],&quot;tests&quot;:[],&quot;suites&quot;:[{&quot;uuid&quot;:&quot;96fff596-49e0-4e94-a4d2-b36942cea9fc&quot;,&quot;title&quot;:&quot;Test api endpoint shop&quot;,&quot;fullFile&quot;:&quot;&quot;,&quot;file&quot;:&quot;&quot;,&quot;beforeHooks&quot;:[],&quot;afterHooks&quot;:[],&quot;tests&quot;:[{&quot;title&quot;:&quot;Get item success&quot;,&quot;fullTitle&quot;:&quot;Test api endpoint shop Get item success&quot;,&quot;timedOut&quot;:null,&quot;duration&quot;:255,&quot;state&quot;:&quot;passed&quot;,&quot;speed&quot;:&quot;slow&quot;,&quot;pass&quot;:true,&quot;fail&quot;:false,&quot;pending&quot;:false,&quot;context&quot;:null,&quot;code&quot;:&quot;cy.request(&#x27;GET&#x27;, &#x27;http://shop.bugred.ru/api/items/get/&#x27;, {\n  \&quot;id\&quot;: &#x27;51&#x27;\n}).then(response =&gt; {\n  expect(response.body.result).to.have.property(&#x27;name&#x27;, &#x27;Шортики&#x27;);\n  expect(response.body.result).to.have.property(&#x27;section&#x27;, &#x27;Платья&#x27;);\n  expect(response.body.result).to.have.property(&#x27;description&#x27;, &#x27;Модное платье из новой коллекции!&#x27;);\n  expect(response.body.result).to.have.property(&#x27;color&#x27;, &#x27;RED&#x27;);\n  expect(response.body.result).to.have.property(&#x27;size&#x27;, &#x27;44&#x27;);\n  expect(response.body.result).to.have.property(&#x27;params&#x27;, &#x27;&#x27;);\n  expect(response.body.result).to.have.property(&#x27;photo&#x27;, &#x27;http://shop.bugred.ruhttps://via.placeholder.com/300x300&#x27;);\n});&quot;,&quot;err&quot;:{},&quot;uuid&quot;:&quot;2b4bed58-c05e-413f-a6ac-0dcd2630bf8a&quot;,&quot;parentUUID&quot;:&quot;96fff596-49e0-4e94-a4d2-b36942cea9fc&quot;,&quot;isHook&quot;:false,&quot;skipped&quot;:false},{&quot;title&quot;:&quot;Get item price&quot;,&quot;fullTitle&quot;:&quot;Test api endpoint shop Get item price&quot;,&quot;timedOut&quot;:null,&quot;duration&quot;:197,&quot;state&quot;:&quot;passed&quot;,&quot;speed&quot;:&quot;slow&quot;,&quot;pass&quot;:true,&quot;fail&quot;:false,&quot;pending&quot;:false,&quot;context&quot;:null,&quot;code&quot;:&quot;cy.request(&#x27;GET&#x27;, &#x27;http://shop.bugred.ru/api/items/get/&#x27;, {\n  \&quot;id\&quot;: &#x27;5&#x27;\n}).then(response =&gt; {\n  expect(response.body.result).to.have.property(&#x27;price&#x27;, 1500);\n});&quot;,&quot;err&quot;:{},&quot;uuid&quot;:&quot;0bb1bd9d-0b83-445d-82af-3a34c7a1a624&quot;,&quot;parentUUID&quot;:&quot;96fff596-49e0-4e94-a4d2-b36942cea9fc&quot;,&quot;isHook&quot;:false,&quot;skipped&quot;:false},{&quot;title&quot;:&quot;Get without id&quot;,&quot;fullTitle&quot;:&quot;Test api endpoint shop Get without id&quot;,&quot;timedOut&quot;:null,&quot;duration&quot;:197,&quot;state&quot;:&quot;passed&quot;,&quot;speed&quot;:&quot;slow&quot;,&quot;pass&quot;:true,&quot;fail&quot;:false,&quot;pending&quot;:false,&quot;context&quot;:null,&quot;code&quot;:&quot;cy.request(&#x27;GET&#x27;, &#x27;http://shop.bugred.ru/api/items/get/&#x27;).then(response =&gt; {\n  expect(response.body).to.have.property(&#x27;error&#x27;, &#x27;id_not_filled&#x27;);\n  expect(response.body).to.have.property(&#x27;message&#x27;, &#x27;Поле ID товара  не заполнено&#x27;);\n});&quot;,&quot;err&quot;:{},&quot;uuid&quot;:&quot;d0f79933-6ab6-453f-ae64-855d3ea80bd9&quot;,&quot;parentUUID&quot;:&quot;96fff596-49e0-4e94-a4d2-b36942cea9fc&quot;,&quot;isHook&quot;:false,&quot;skipped&quot;:false},{&quot;title&quot;:&quot;Get item not found&quot;,&quot;fullTitle&quot;:&quot;Test api endpoint shop Get item not found&quot;,&quot;timedOut&quot;:null,&quot;duration&quot;:199,&quot;state&quot;:&quot;passed&quot;,&quot;speed&quot;:&quot;slow&quot;,&quot;pass&quot;:true,&quot;fail&quot;:false,&quot;pending&quot;:false,&quot;context&quot;:null,&quot;code&quot;:&quot;cy.request(&#x27;GET&#x27;, &#x27;http://shop.bugred.ru/api/items/get/&#x27;, {\n  \&quot;id\&quot;: &#x27;567&#x27;\n}).then(response =&gt; {\n  expect(response.body).to.have.property(&#x27;error&#x27;, &#x27;item_with_id_not_found&#x27;);\n  expect(response.body).to.have.property(&#x27;message&#x27;, &#x27;Товар с ID 567 не найден!&#x27;);\n});&quot;,&quot;err&quot;:{},&quot;uuid&quot;:&quot;0c558eef-58a5-435a-ab10-0f43560e1dad&quot;,&quot;parentUUID&quot;:&quot;96fff596-49e0-4e94-a4d2-b36942cea9fc&quot;,&quot;isHook&quot;:false,&quot;skipped&quot;:false},{&quot;title&quot;:&quot;Get query select item&quot;,&quot;fullTitle&quot;:&quot;Test api endpoint shop Get query select item&quot;,&quot;timedOut&quot;:null,&quot;duration&quot;:196,&quot;state&quot;:&quot;passed&quot;,&quot;speed&quot;:&quot;slow&quot;,&quot;pass&quot;:true,&quot;fail&quot;:false,&quot;pending&quot;:false,&quot;context&quot;:null,&quot;code&quot;:&quot;cy.request(&#x27;GET&#x27;, &#x27;http://shop.bugred.ru/api/items/select/&#x27;, {\n  \&quot;sql_query\&quot;: \&quot;select * from items where last_id = 2;\&quot;\n}).then(response =&gt; {\n  expect(response.body.result[0]).to.have.property(&#x27;title&#x27;, &#x27;Товар 2&#x27;);\n  expect(response.body.result[0]).to.have.property(&#x27;price&#x27;, &#x27;1000&#x27;);\n  expect(response.body.result[0]).to.have.property(&#x27;image&#x27;, &#x27;/files/tmpfiles/avatar_big.jpg&#x27;);\n  expect(response.body.result[0]).to.have.property(&#x27;category&#x27;, &#x27;1&#x27;);\n  expect(response.body.result[0]).to.have.property(&#x27;sort&#x27;, &#x27;2&#x27;);\n});&quot;,&quot;err&quot;:{},&quot;uuid&quot;:&quot;de1f45bf-e37a-47b1-873d-7c6c9c5a2953&quot;,&quot;parentUUID&quot;:&quot;96fff596-49e0-4e94-a4d2-b36942cea9fc&quot;,&quot;isHook&quot;:false,&quot;skipped&quot;:false}],&quot;suites&quot;:[],&quot;passes&quot;:[&quot;2b4bed58-c05e-413f-a6ac-0dcd2630bf8a&quot;,&quot;0bb1bd9d-0b83-445d-82af-3a34c7a1a624&quot;,&quot;d0f79933-6ab6-453f-ae64-855d3ea80bd9&quot;,&quot;0c558eef-58a5-435a-ab10-0f43560e1dad&quot;,&quot;de1f45bf-e37a-47b1-873d-7c6c9c5a2953&quot;],&quot;failures&quot;:[],&quot;pending&quot;:[],&quot;skipped&quot;:[],&quot;duration&quot;:1044,&quot;root&quot;:false,&quot;rootEmpty&quot;:false,&quot;_timeout&quot;:2000}],&quot;passes&quot;:[],&quot;failures&quot;:[],&quot;pending&quot;:[],&quot;skipped&quot;:[],&quot;duration&quot;:0,&quot;root&quot;:true,&quot;rootEmpty&quot;:true,&quot;_timeout&quot;:2000}],&quot;meta&quot;:{&quot;mocha&quot;:{&quot;version&quot;:&quot;7.0.1&quot;},&quot;mochawesome&quot;:{&quot;options&quot;:{&quot;quiet&quot;:false,&quot;reportFilename&quot;:&quot;mochawesome&quot;,&quot;saveHtml&quot;:false,&quot;saveJson&quot;:true,&quot;consoleReporter&quot;:&quot;spec&quot;,&quot;useInlineDiffs&quot;:false,&quot;code&quot;:true},&quot;version&quot;:&quot;6.3.0&quot;},&quot;marge&quot;:{&quot;options&quot;:{&quot;id&quot;:&quot;default&quot;,&quot;reportDir&quot;:&quot;cypress/reports/mocha&quot;,&quot;quite&quot;:true,&quot;overwrite&quot;:false,&quot;html&quot;:false,&quot;json&quot;:true},&quot;version&quot;:&quot;5.2.0&quot;}}}" data-config="{&quot;reportFilename&quot;:&quot;index&quot;,&quot;reportDir&quot;:&quot;public&quot;,&quot;reportTitle&quot;:&quot;test-project-cypress&quot;,&quot;reportPageTitle&quot;:&quot;Mochawesome Report&quot;,&quot;inline&quot;:false,&quot;inlineAssets&quot;:false,&quot;assetsDir&quot;:&quot;public/assets&quot;,&quot;cdn&quot;:false,&quot;charts&quot;:false,&quot;enableCharts&quot;:false,&quot;code&quot;:true,&quot;enableCode&quot;:true,&quot;autoOpen&quot;:false,&quot;overwrite&quot;:true,&quot;timestamp&quot;:false,&quot;ts&quot;:false,&quot;showPassed&quot;:true,&quot;showFailed&quot;:true,&quot;showPending&quot;:true,&quot;showSkipped&quot;:false,&quot;showHooks&quot;:&quot;failed&quot;,&quot;saveJson&quot;:false,&quot;saveHtml&quot;:true,&quot;dev&quot;:false,&quot;htmlFile&quot;:&quot;/home/runner/work/test-project-cypress/test-project-cypress/public/index.html&quot;}"><div id="report"></div><script src="assets/app.js"></script></body></html>
